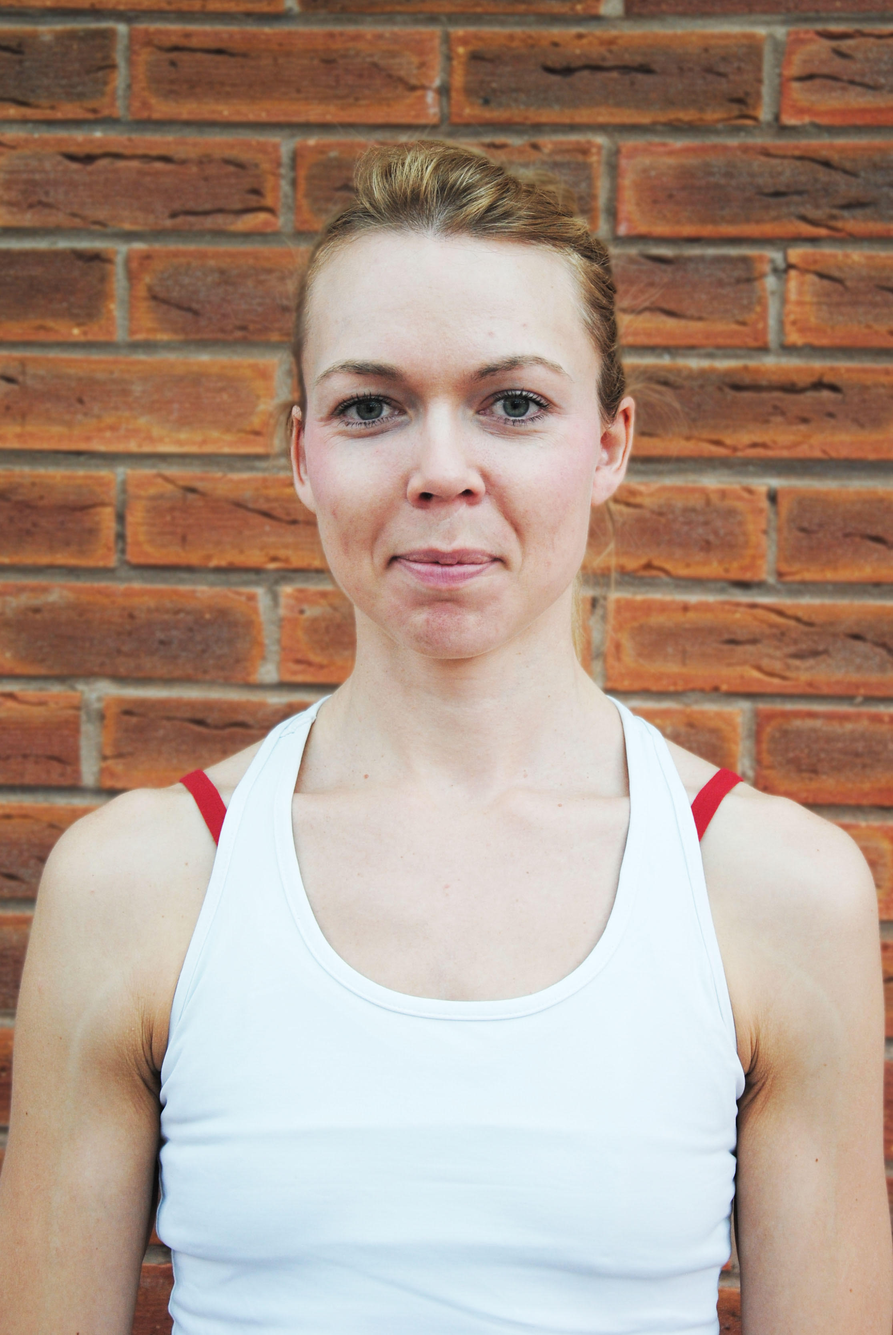
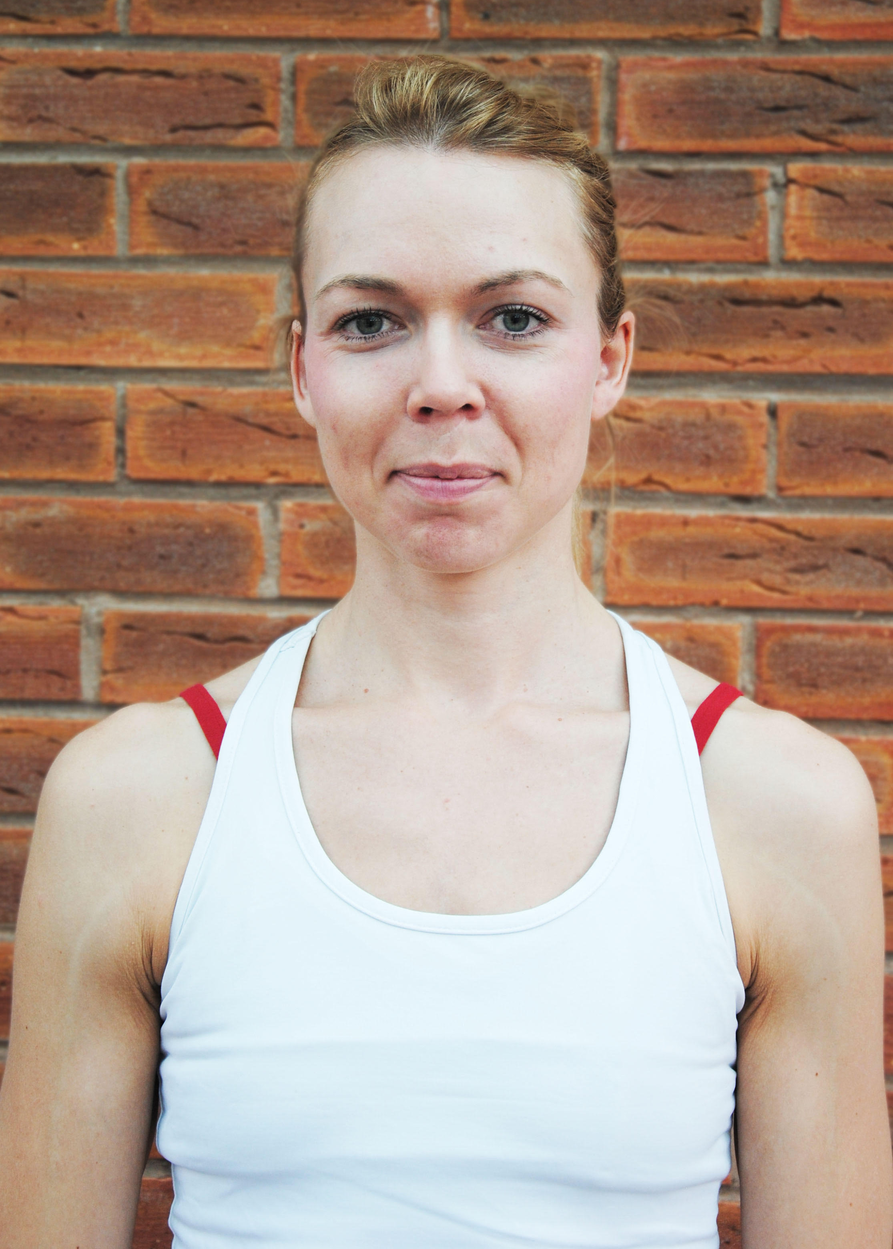
Changed headshot

diff --git a/index.html b/index.html
@@ -119,7 +119,7 @@
       <h4>Meet the instructor.</h4>
       <div class="row">
         <div class="col l5 m5">
-          <img src="kelly.jpg" class="z-depth-2" width=100%  height="auto"  alt="Kelly"/>
+          <img src="kelly2.jpg" class="z-depth-2" width=100%  height="auto"  alt="Kelly"/>
         </div>
         <div class="col l7 m7">
           <h5>Kelly Hurley</h5>
